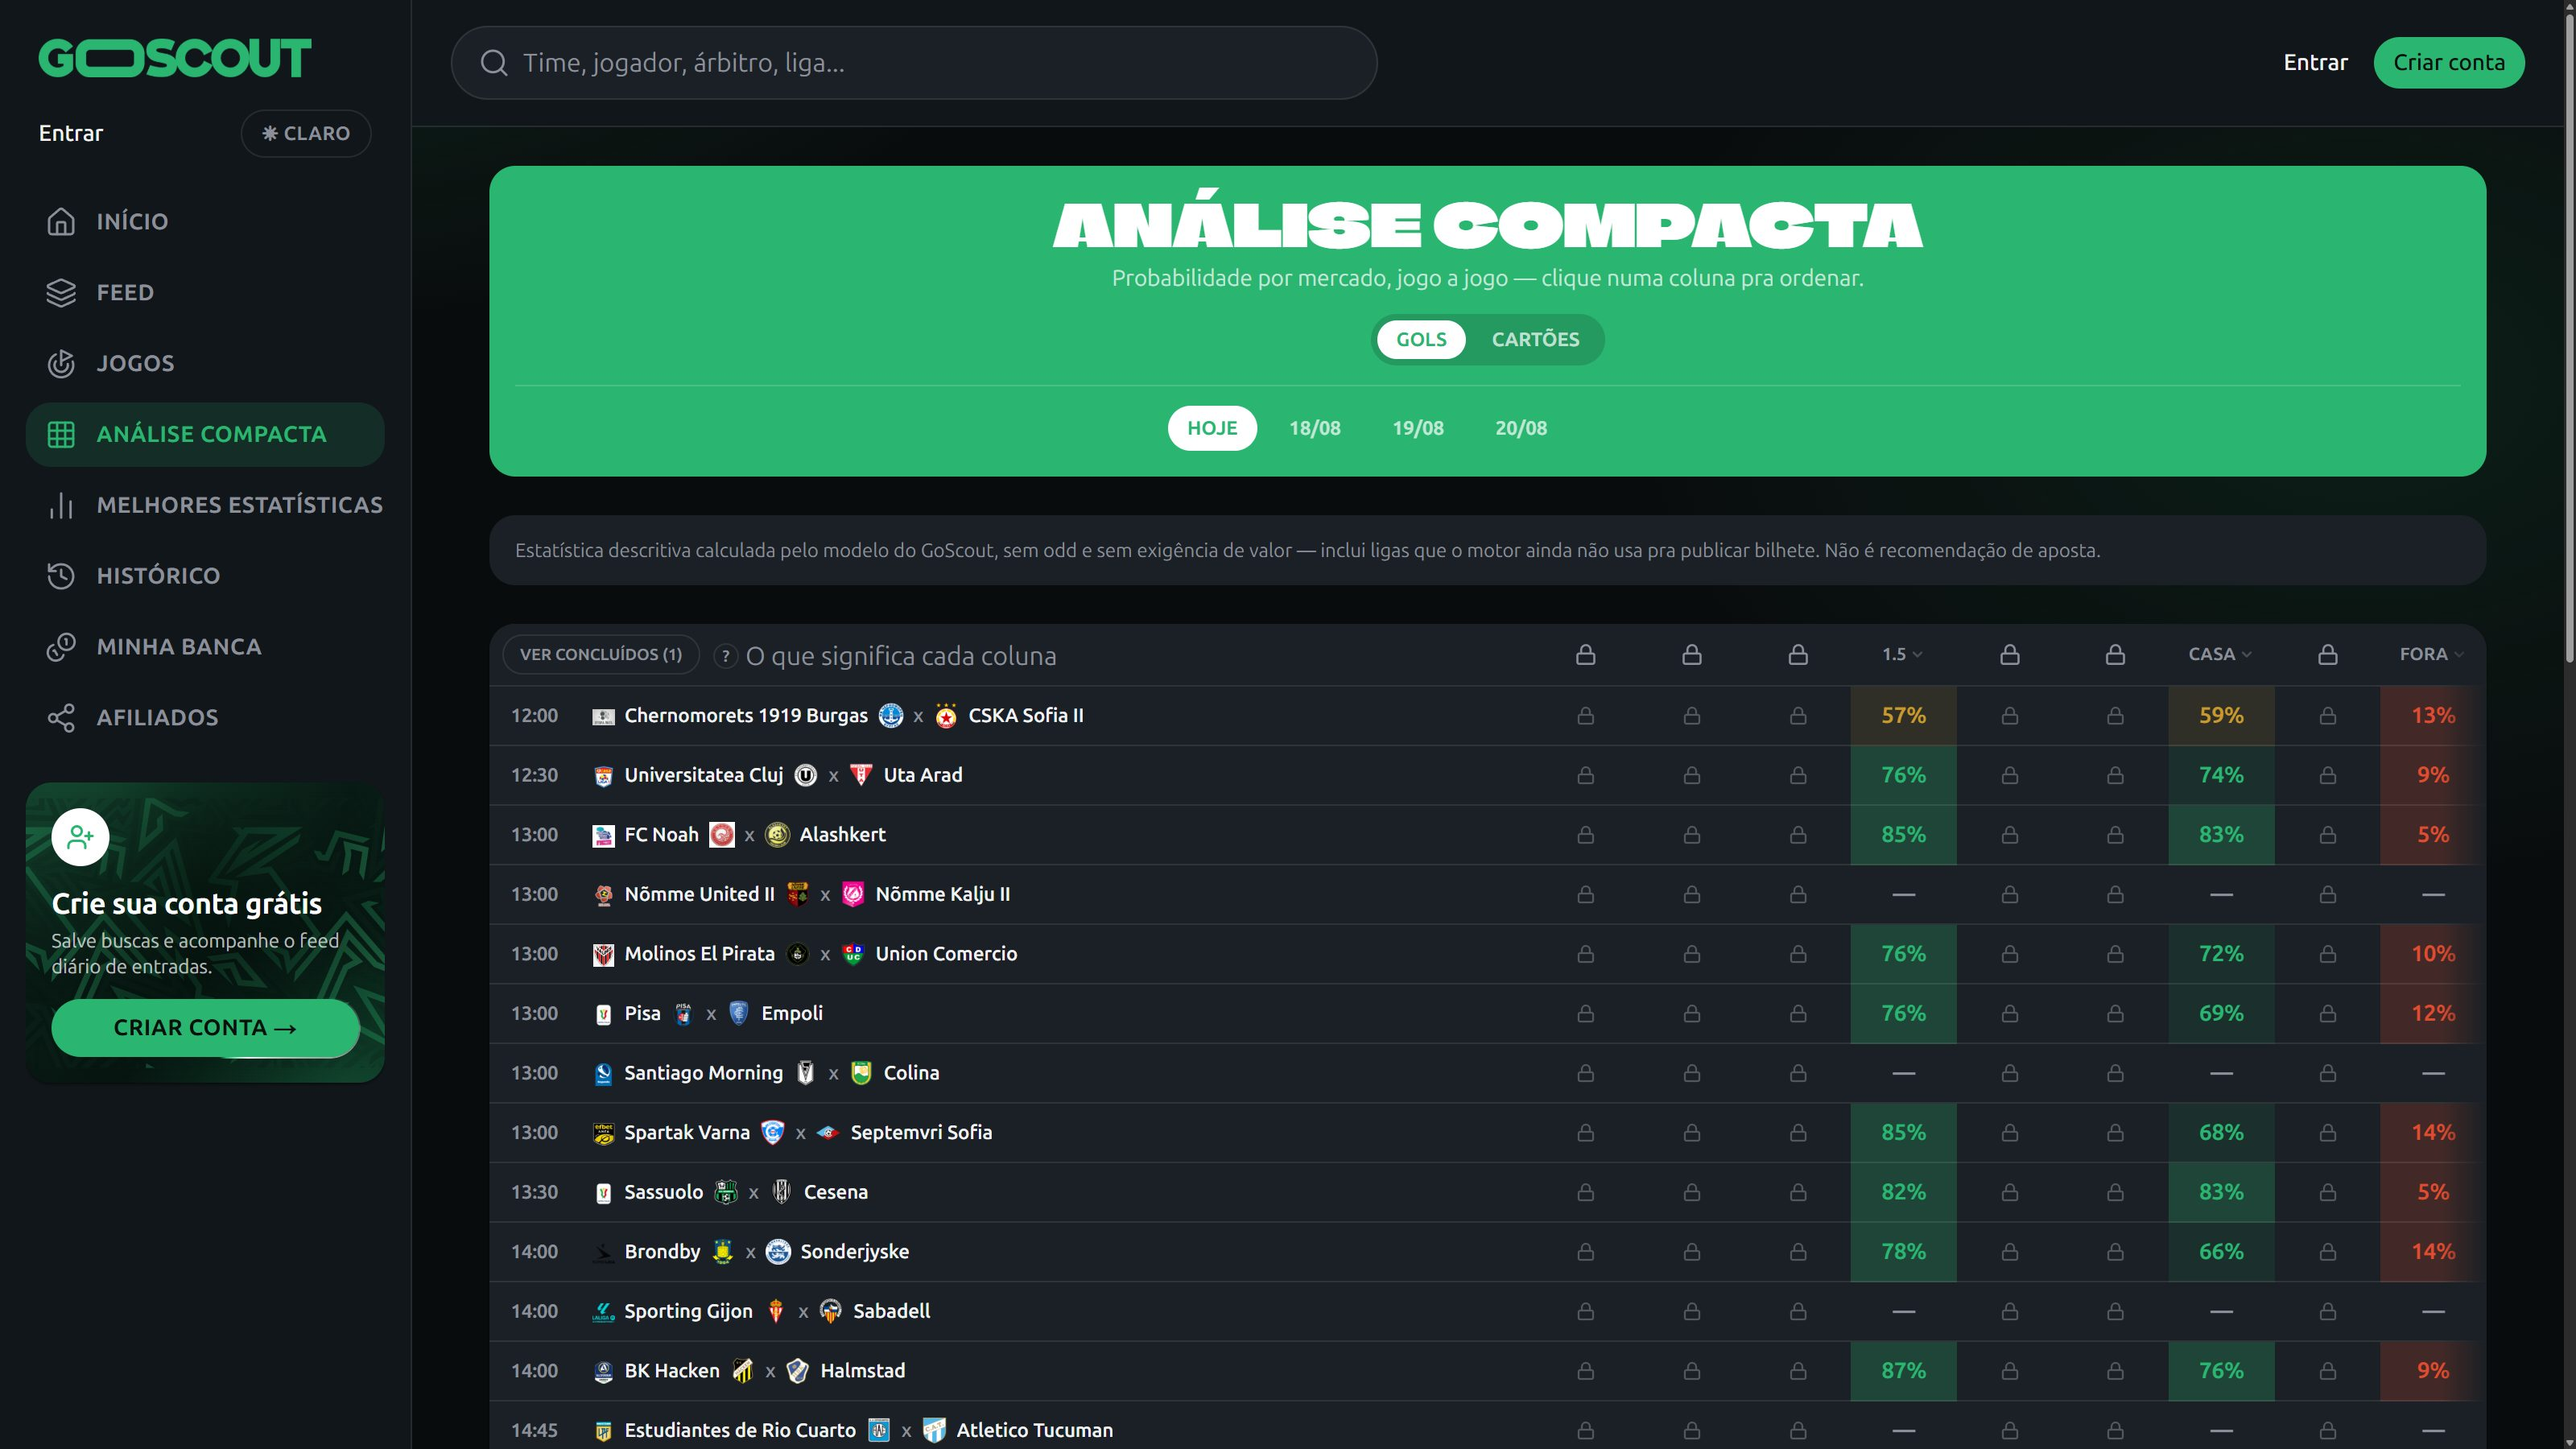
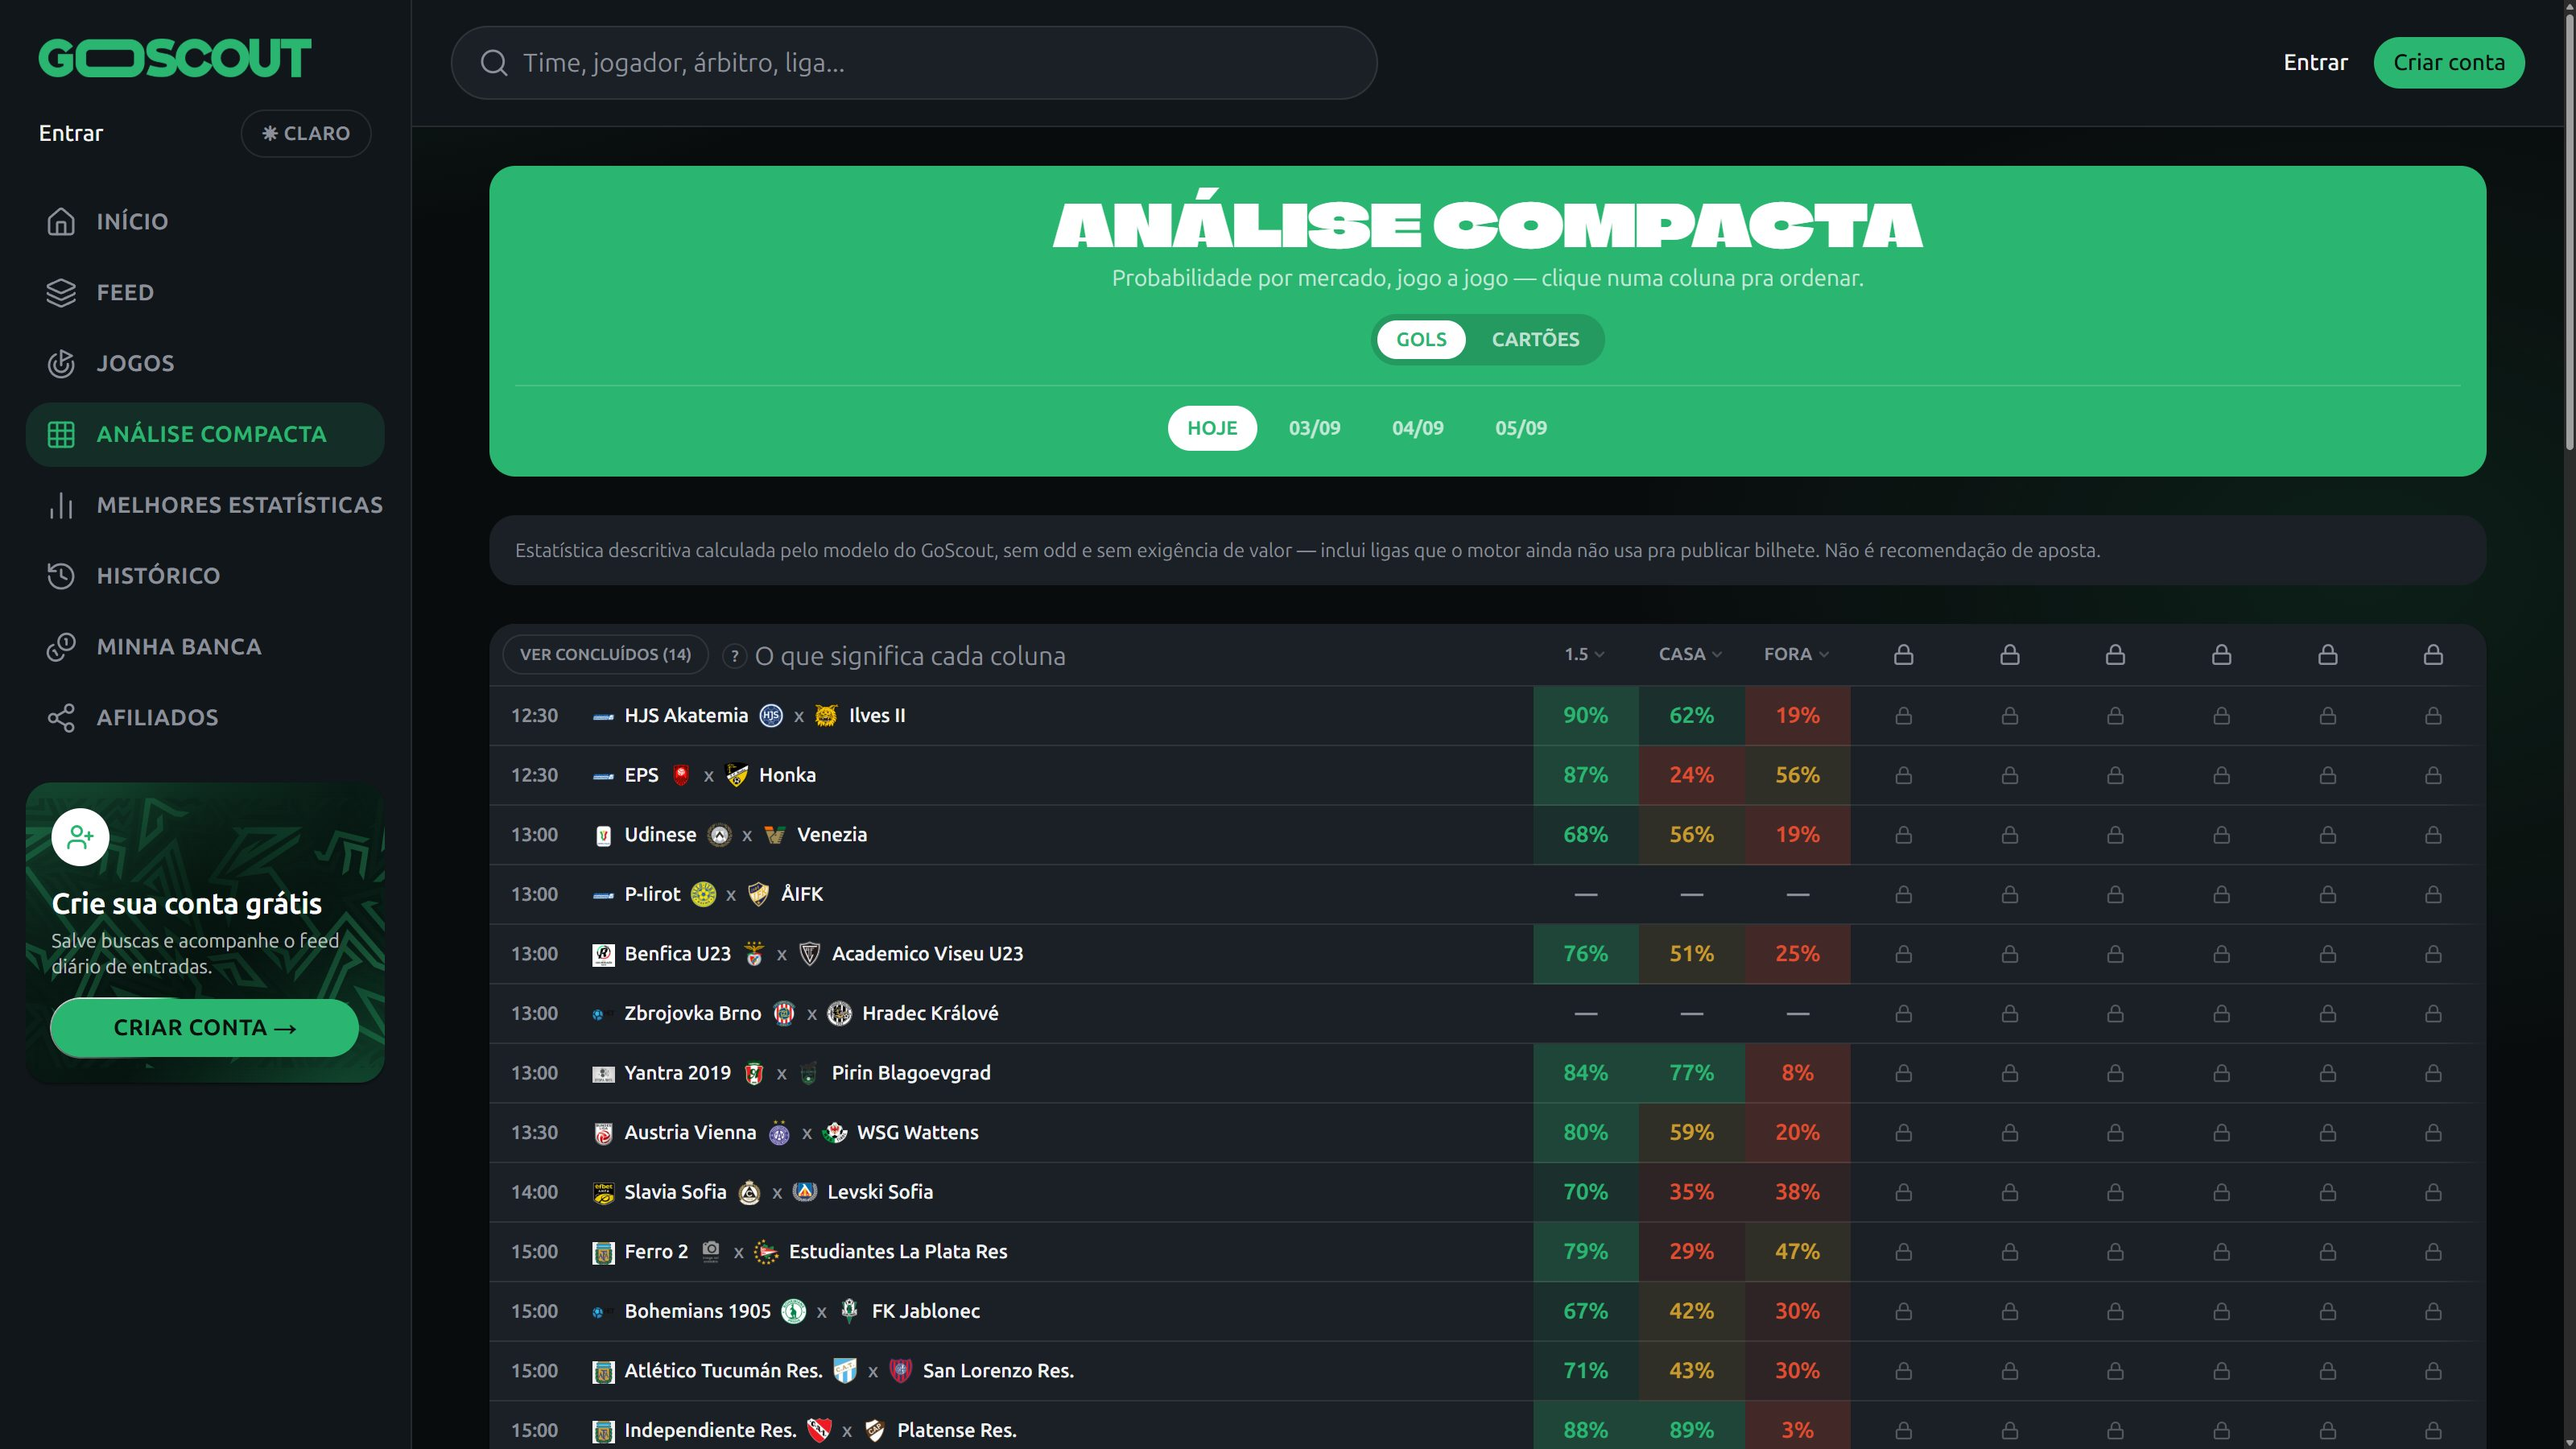
Refresh GoScout case: fix cropped mobile shot, add lineup and stats screens
Recaptured the mobile screenshot with a fixture whose team names don't
overflow the header, refreshed the compact analysis grid to the current
UI, and added two new screens (per-player stats tab, lineup board) that
show analysis layers the case didn't cover yet.

Claude-Session: https://claude.ai/code/session_013ot3FZzHKRKJ4e2RWTaiLS

diff --git a/projects/goscout/index.html b/projects/goscout/index.html
@@ -116,7 +116,7 @@
 
   <div class="media-pair" data-reveal>
     <figure class="shot">
-      <img src="/projects/goscout/assets/grid.jpg" alt="GoScout compact probability grid with locked paid columns" width="3200" height="1800">
+      <img src="/projects/goscout/assets/grid.jpg" alt="GoScout compact analysis grid, goals and cards toggle, fixtures readable with locked paid columns" width="3200" height="1800">
       <figcaption>The compact grid. Fixtures stay readable, the paid columns carry a lock.</figcaption>
     </figure>
     <figure class="shot">
@@ -127,6 +127,27 @@
 
   <div class="media-full" data-reveal>
     <img src="/projects/goscout/assets/fixtures.jpg" alt="GoScout fixtures list grouped by league" width="3200" height="1800">
+  </div>
+
+  <hr class="rule">
+
+  <section class="block read" data-reveal>
+    <p class="label read-label">A newer layer</p>
+    <div class="read-body">
+      <h2>One number is never the whole analysis</h2>
+      <p>A probability alone still asks for trust. So the match screen carries several independent readings underneath it: goals by 15-minute window, live shot and corner pressure minute by minute, head-to-head history, recent form, and now a per-player log against the last 5 to 30 games, split home or away, with the line and the market odds behind each row.</p>
+      <p>That last one shipped as a new tab I designed and marked with a small badge, because it changes what someone can check before trusting the headline number: not just "the model says 56%" but which player's shot rate or card history is driving that read.</p>
+    </div>
+  </section>
+
+  <div class="media-full shot" data-reveal>
+    <img src="/projects/goscout/assets/match-stats.jpg" alt="GoScout per-player match stats table, showing shot logs across the last ten games with hit rate and market line" width="3200" height="1700">
+    <figcaption>Per-player log for one match, toggled by team and stat, filtered by last 5-30 games and by venue.</figcaption>
+  </div>
+
+  <div class="media-full shot" data-reveal>
+    <img src="/projects/goscout/assets/lineup.jpg" alt="GoScout lineup board showing a team's formation on the pitch with player photos, positions and a shot log below" width="3200" height="1800">
+    <figcaption>The lineup tab, rendered on the pitch instead of a plain list, with each player's shot log underneath.</figcaption>
   </div>
 
   <hr class="rule">
